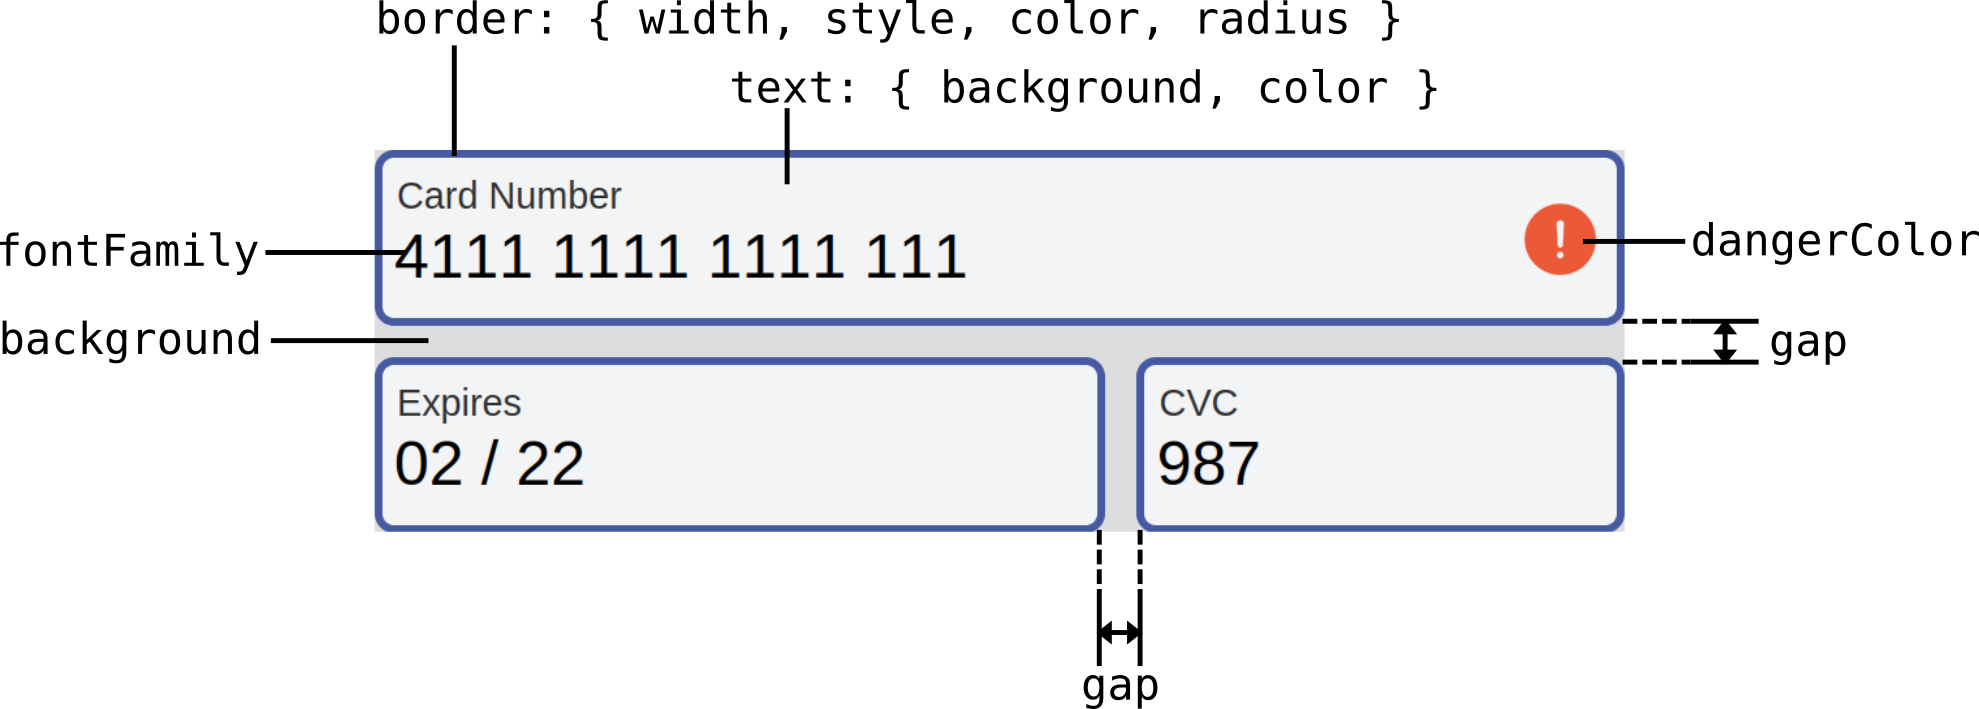
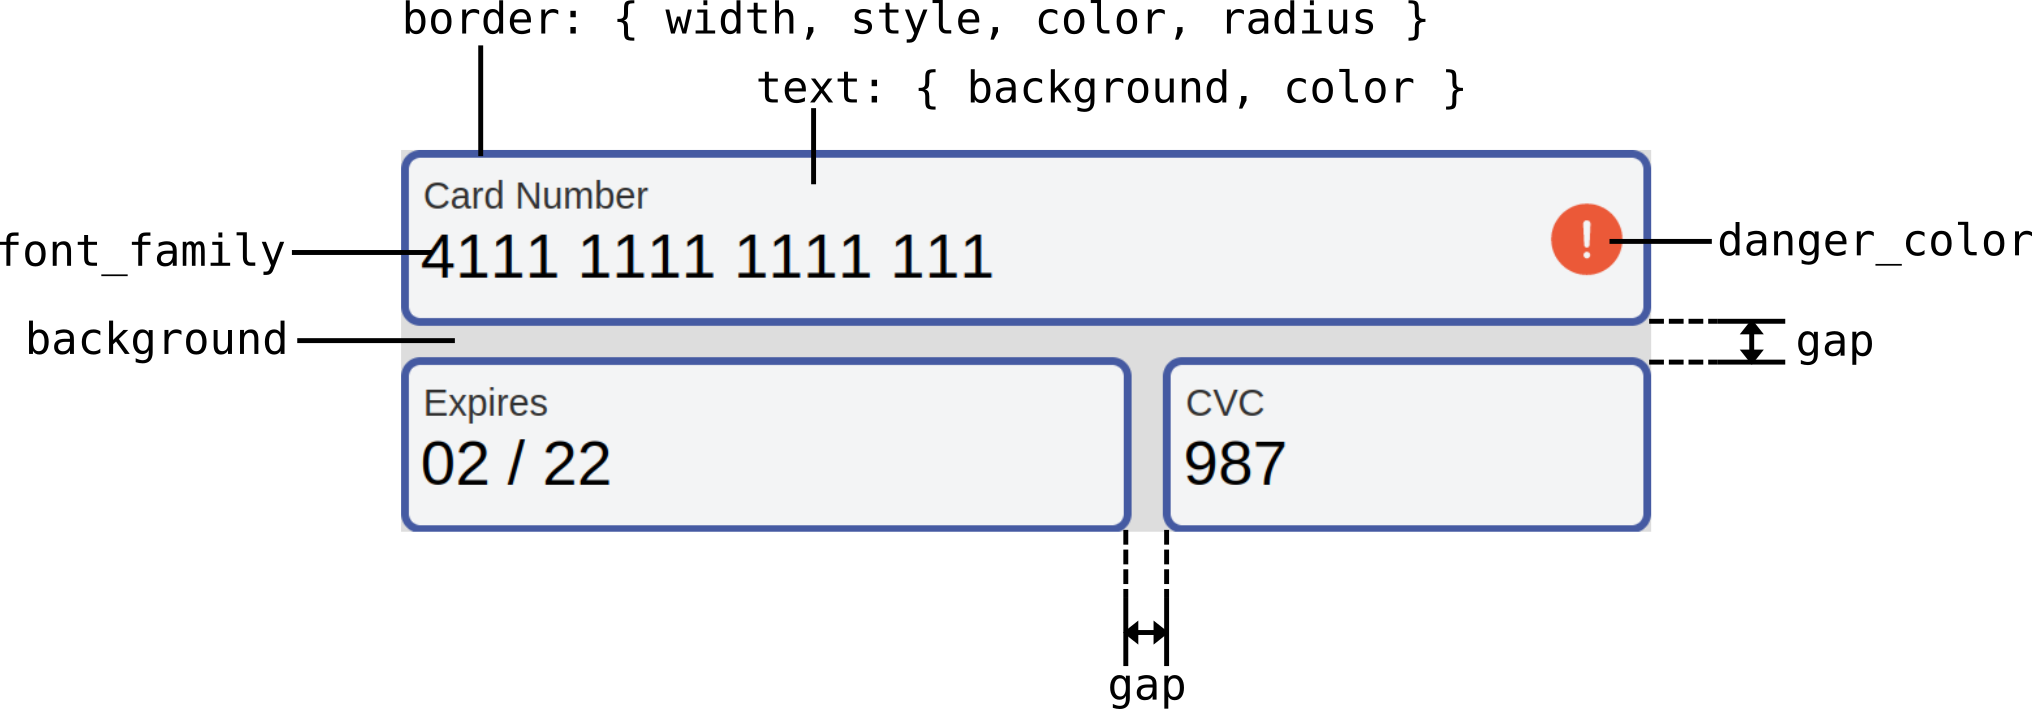
Updated merchant documentation

diff --git a/docs/.vuepress/config.js b/docs/.vuepress/config.js
@@ -60,7 +60,6 @@ module.exports = {
           { text: 'Order API', link: '/merchant/customer/create' },
           { text: 'Customer API', link: '/merchant/customer/registration-ui' },
           { text: 'Reference', link: '/merchant/reference/customer' },
-          { text: 'Customer Page', link: '/merchant/customer-page/' },
         ]
       },
       { text: 'Business banking', link: '/direct/' },
@@ -74,7 +73,6 @@ module.exports = {
       '/integrate/payment-gateway/': getIntegrateSidebar(),
       // '/integrate/acquiring/': getIntegrateSidebar(),
       '/merchant/': getMerchantSidebar(),
-      '/merchant/customer-page/': getMerchantSidebar(),
       '/direct/': [
         '',
       ],
@@ -169,7 +167,7 @@ function getMerchantSidebar() {
       ]
     },
     {
-      title: 'Customer API',
+      title: 'Customer',
       collapsable: false,
       children: [
         '/merchant/customer/registration-ui',
@@ -177,13 +175,14 @@ function getMerchantSidebar() {
         '/merchant/customer/create-api-key',
         '/merchant/customer/create-order',
         '/merchant/customer/balance',
-        '/merchant/customer/change',
+        '/merchant/customer/change-details',
         '/merchant/customer/change-contact-information',
         '/merchant/customer/fetch',
         '/merchant/customer/list',
-        '/merchant/customer/create-page-login',
+        '/merchant/customer/create-app-login',
         '/merchant/customer/payment-methods',
         '/merchant/customer/subscriptions',
+        '/merchant/customer/app',
       ]
     },
     {
@@ -194,6 +193,5 @@ function getMerchantSidebar() {
         '/merchant/reference/subscription'
       ]
     },
-    '/merchant/customer-page'
   ]
 }

diff --git a/docs/merchant/card-input/style.md b/docs/merchant/card-input/style.md
@@ -17,14 +17,14 @@ The layout parameter is optional and has three possible values: standard, row or
 ### Row
 
 ```html
-<intergiro-card-input api-key="<public.api.key>" layout="standard"></intergiro-card-input>
+<intergiro-card-input api-key="<public.api.key>" layout="row"></intergiro-card-input>
 ```
 <img :src="$withBase('/assets/img/merchant/card-input/row.png')" alt="Row">
 
 ### Column
 
 ```html
-<intergiro-card-input api-key="<public.api.key>" layout="standard"></intergiro-card-input>
+<intergiro-card-input api-key="<public.api.key>" layout="column"></intergiro-card-input>
 ```
 
 <img :src="$withBase('/assets/img/merchant/card-input/column.png')" alt="Column">
@@ -42,54 +42,54 @@ The cosmetic parameter should be set to a JSON or a stringified JSON as describe
 		"text": {"background": "#e7e7e7", "color": "black"}, 
 		"border": {"width": "1px", "radius": "5px", "color": "#000", "style": "solid"},
 		"background": "white",
-		"fontFamily": "Arial, Verdana",
-		"dangerColor": "#de4747"
+		"font_family": "Arial, Verdana",
+		"danger_color": "#de4747"
 	}'>
 </intergiro-card-input>
 ```
 ### Fonts
-The fontFamily field can consist of several fonts and are separated by comma. The property `text.color` changes the text color.
+The font_family field can consist of several fonts and are separated by comma. The property `text.color` changes the text color.
 ``` html
 <intergiro-card-input
   api-key="<public-api-key>"
   cosmetic='{ 
         "text": {"color": "#566c68"},
-		"fontFamily": "Arial, Verdana",
+		"font_family": "Arial, Verdana",
 	}'>
 </intergiro-card-input>
 ```
 
 ### Borders
 The borders inside the component can be changed with four parameters.
-- `"width"` can be set to pixels (px) or em values. Changes the witdh of the borders.
-- `"radius"` can be set to pixels (px) or em values. Changes the "roundness" of the corners.
-- `"color"` can be set to rgb or hex vales. Changes the color of the borders.
-- `"style"` can be set to `"dotted"`, `"dashed"`, `"solid"`, `"double"`, `"groove"`, `"ridge"`, `"inset"`, `"outset"`, `"none"` or `"hidden"`. Changes the border effect.
+- `"width"` Changes the witdh of the borders.
+- `"radius"` Changes the "roundness" of the corners.
+- `"color"` Changes the color of the borders (not compatible with alpha values). 
+- `"style"` Changes the border style.
 
 ``` JSON
 cosmetic='{"border": {"width": "1px", "radius": "5px", "color": "#000", "style": "solid"}}'
 ```
 ### Gap
-To change the distance between the input fields the `"gap"` parameter can be used with either pixel (px) or em values.
+To change the distance between the input fields the `"gap"` parameter can be used with all units of length allowed by css.
 
 ```JSON
 cosmetic='{"gap": "1em"}'
 ```
 
 ### Colors
-Colors should be specified in rgb or hex values.
+Colors should be specified in rgb, color names, hsl or hex values without alpha values.
 
 - The text color is changed through the `"text.color"` property.
 - The background color is changed through the `"text.background"` property.
 - The border color is changed through the `"border.color"` property.
-- The color of the error symbol is changed through the `"dangerColor"` property.
+- The color of the error symbol is changed through the `"danger_color"` property.
 
  ``` JSON
-cosmetic='{"dangerColor": "#de4747"}'
+cosmetic='{"danger_color": "#de4747"}'
 ```
 or 
  ``` JSON
-cosmetic='{"dangerColor": "222, 71, 71"}'
+cosmetic='{"danger_color": "222, 71, 71"}'
 ```
 
 ### Example 1
@@ -102,8 +102,8 @@ cosmetic='{"dangerColor": "222, 71, 71"}'
 		"gap": "0.2em", 
 		"text": {"background": "#ccfff0", "color": "#566c68"}, 
 		"border": {"radius": "10px", "style": "none"},
-		"fontFamily": "Ubuntu",
-		"dangerColor": "#de4747"
+		"font_family": "Ubuntu",
+		"danger_color": "#de4747"
 	    }' 
     layout="row">
 </intergiro-card-input>
@@ -117,8 +117,8 @@ cosmetic='{"dangerColor": "222, 71, 71"}'
 	cosmetic='{
 	    "text": {"background": "#fff8d9", "color": "#202020"}, 
 	    "border": {"width": ".5px", "radius": "0px", "color": "#e9d789", "style": "solid"},
-	    "fontFamily": "Georgia",
-	    "dangerColor": "#de4747"
+	    "font_family": "Georgia",
+	    "danger_color": "#de4747"
 	    }' 
 	layout="standard">
 </intergiro-card-input>
@@ -134,8 +134,8 @@ cosmetic='{"dangerColor": "222, 71, 71"}'
         "gap": "0.3em", 
         "text": {"background": "#e7e7e7", "color": "black"}, 
         "border": {"width": "1px", "radius": "5px", "color": "#000", "style": "solid"},
-        "fontFamily": "Arial, Verdana",
-        "dangerColor": "#de4747"
+        "font_family": "Arial, Verdana",
+        "danger_color": "#de4747"
     }' 
     layout="column">
 </intergiro-card-input>

diff --git a/docs/merchant/integration-guide/introduction.md b/docs/merchant/integration-guide/introduction.md
@@ -9,14 +9,18 @@ Don't sweat it, you can start somewhere and change solution step by step.
 - Otherwise, or when in doubt, use our [PSP APIs](./psp/api).
 
 
-| API           | Subset                                                           | Acquiring    | Order                | Subscription         |
-|---------------|------------------------------------------------------------------|--------------|----------------------|----------------------|
-| Acquiring     | [Authorization API](../../integrate/acquiring/api#authorization) | yes          |                      |                      |
-| Acquiring,PSP | [Verification API](../../integrate/acquiring/api#verification)   | yes          | Custom UI (optional) | Custom UI (optional) |
-| PSP           | [Order API](../order/create)                                     |              | Custom UI            |                      |
-| PSP           | [Customer API](../customer/introduction)                         |              |                      | yes                  |
-| PSP           | [Customer Subscription API](../customer/introduction)            |              |                      | yes                  |
-| Acquiring,PSP | [Card API](../card-api/create)                                   | optional     | optional             |                      |
-| PSP           | [Registration UI](../customer/registration-ui)                   |              |                      | Standard UI          |
-| PSP           | [Checkout UI](../checkout/embed)                                 |              | Standard UI          |                      |
-| Acquiring,PSP | [Card Input UI](../card-input/embed)                             | Minimize PCI |                      | Custom UI            |
+| API           | Subset                                                           | Acquiring          | Order                | Subscription         |
+|---------------|------------------------------------------------------------------|--------------------|----------------------|----------------------|
+| Acquiring     | [Authorization API](../../integrate/acquiring/api#authorization) | yes                |                      |                      |
+| Acquiring,PSP | [Verification API](../../integrate/acquiring/api#verification)   | yes                | Custom UI (optional) | Custom UI (optional) |
+| PSP           | [Order API](../order/create)                                     |                    | Custom UI (optional) |                      |
+| PSP           | [Customer API](../customer/introduction)                         |                    |                      | yes                  |
+| PSP           | [Customer Subscription API](../customer/introduction)            |                    |                      | yes                  |
+| Acquiring,PSP | [Card API](../card-api/create)                                   | optional           |                      |                      |
+| PSP           | [Registration UI](../customer/registration-ui)                   |                    |                      | Standard UI          |
+| PSP           | [Checkout UI](../checkout/embed)                                 |                    | Standard UI          |                      |
+| Acquiring,PSP | [Card Input UI](../card-input/embed)                             | Minimize PCI scope | Custom UI (optional) | Custom UI (optional) |
+
+- Standard UI: a complete solution with our UI components.
+- Custom UI: if you want to build your own UI, including some or none of our UI components.
+- Minimize PCI scope: avoid handling card information.

diff --git a/docs/merchant/integration-guide/psp/api.md b/docs/merchant/integration-guide/psp/api.md
@@ -8,33 +8,38 @@
 
 ## [Creating orders UI](../../checkout/embed)
 Checkout is used for creating orders and authorize payments associated with orders for one off relations. 
-Take a look at [Checkout UI](../../checkout/embed) for code examples and a more detailed description, where information about how to customize the component is available under [Checkout Cosmetics](../../checkout/cosmetics).
+Take a look at [Checkout UI](../../checkout/embed) for code examples and a more detailed description, where information about how to customize the component is available under [Checkout Cosmetics](../../checkout/cosmetics) and [Checkout Features](../../checkout/features).
 
-## [Registering Customers UI](../../customer/register-ui) 
-The [Onboard UI](../../customer/register-ui) component lets your users register contact and card information that gets authorized for future payments, such as subscriptions or other recurring payments.
+## [Registering Customers UI](../../customer/registration-ui) 
+The [Intergiro Customer Registration UI](../../customer/registration-ui) component lets your users register contact and card information that gets authorized for future payments, such as subscriptions or other recurring payments.
 
 ## Minimize PCI scope
 If you need a separate card tokenization there is an UI solution in addition to an API solution.
 
-#### [Card Input UI](../../card-input/embed)
+### [Card Input UI](../../card-input/embed)
 Intergiro Card Input is an embeddable component for card tokenization that can be integrated as a normal html component, that can be customized if desired trough [styling](../../card-input/style). 
 
 Card Input is also capable of doing 3D Secure, more information and code examples can be found at [Card Input Verification](../../card-input/verification). 
 
 For more information and code example please read more at [Intergiro Card Input](../card-input/embed) 
 
-#### [Card API](../../card-api/create)
+### [Card API](../../card-api/create)
 [Card API](../../card-api/create) can create card tokens and handle 3D Secure if desired. 
 
 
 ## API only (S2S)
 
-- [Card API](../../card-api/create) 
-    - [Card tokenization](../../card-api/create)
-    - [3D Secure handling](../../card-api/verification)
-- [Order API](../../order/create)
-    - [Creating orders](../../order/create)
-    - [Changing orders](../../order/change)
-- [Customer API](../../customer/create)
-    - [Subscriptions](../../customer/subscriptions)
-    - [Recurring payments](../../customer/create-order)
+### Card API 
+
+- [Card tokenization](../../card-api/create)
+- [3D Secure handling](../../card-api/verification)
+### Order API
+
+- [Creating orders](../../order/create)
+- [Changing orders](../../order/change)
+
+### Customer API
+
+- [Creating customers](../../customer/create) 
+- [Subscriptions](../../customer/subscriptions)
+- [Recurring payments](../../customer/create-order)

diff --git a/docs/merchant/customer/app.md b/docs/merchant/customer/app.md
@@ -1,15 +1,25 @@
-# Customer Page
+# App
 
-Intergiro Customer is a personal page that is provided to all your customers, to make it easy to update payment and contact information, and to provide easy access to all orders associated to the customer.
+Intergiro Customer is a personal app that is provided to all your customers, to make it easy to update payment and contact information, and to provide easy access to all orders associated to the customer.
 
 ## Website integration
- The customer page can be integrated into your website as an embedded page. The `<intergiro-customer>` component can be used to access the entire customer page, or to access individual components of the page, such as the payment methods, order history or subscriptions.
+ The customer app can be integrated into your website as an embedded component. The `<intergiro-customer>` component can be used to access the entire customer app, or to access individual components of the app, such as the payment methods, order history or subscriptions.
  
-To integrate the customer page to your website, a unique [customer key](#customer-api-key) is needed for each customer. [Customer keys](#customer-api-key) are valid for three days until they expire and should thereafter be renewed.
+To integrate the customer app to your website, a unique [customer key](#customer-api-key) is needed for each customer. [Customer keys](#customer-api-key) are valid for three days until they expire and should thereafter be renewed.
 
-Full customer page example implementation: 
+Full customer app example implementation: 
 ```html
-<intergiro-customer api-key="<your-customer-key>"></intergiro-customer>
+<!DOCTYPE html>
+<html dir="ltr">
+<head>
+	<script type="module" src="https://customer.merchant.intergiro.com/intergiro-customer.esm.js"></script>
+	<script nomodule src="https://customer.merchant.intergiro.com/intergiro-customer.js"></script>
+	<link href="https://merchant.intergiro.com/intergiro/index.css" rel="stylesheet" />
+</head>
+<body>
+    <intergiro-customer api-key="<your-customer-key>"></intergiro-customer>
+</body>
+</html>
 ```
 Single component example implementation. Possible component identifiers are `"method"`, `"orders"` or `"subscription"`. 
 ```html
@@ -33,7 +43,7 @@ Authorization: Bearer <private.api.key>
 A successful response will return a Customer API key.
 
 ## Customized theming
-Customized theming can be set to the customer page by specifying specific styling attributes. This is done by entering a stringified JSON object into the `cosmetic` attribute. All available styling options are seen in the figure below.
+Customized theming can be set to the customer app by specifying specific styling attributes. This is done by entering a stringified JSON object into the `cosmetic` attribute. All available styling options are seen in the figure below.
 
 ```json
 cosmetic = {

diff --git a/docs/merchant/checkout/embed.md b/docs/merchant/checkout/embed.md
@@ -1,6 +1,18 @@
 # Embedable Component
 
-The Intergiro Checkout component can tokenize cards, handle 3d Secure and create orders. Below is a simple example of how to implement and how it will display.
+The Intergiro Checkout component can tokenize cards, handle 3d Secure and create orders.
+
+The attributes to Intergiro Checkout.
+| Field       | Type                                                                                                                       | Description                  |
+|-------------|----------------------------------------------------------------------------------------------------------------------------|------------------------------|
+| `currency`  | [Currency](../../integrate/acquiring/reference.html#currency)                                                              | Currency of the order        |
+| `items`     | `number`, [Item](../../integrate/acquiring/reference.html#item) or [Item](../../integrate/acquiring/reference.html#item)[] | Amount or items ordered      |
+| `api-key`   | `<public.api.key>`                                                                                                         |                              |
+| `features`  | `"contact" | "transfer" | "contact transfer"`                                                                              | See [`features`](./features) |
+| `cosmetics` | [`Cosmetics`](./cosmetic)                                                                                                  |                              |
+| `number`    | `string`                                                                                                                   | order number                 |
+
+ Below is a simple example of how to implement and how it will display.
 
 ``` html
 <!DOCTYPE html>
@@ -15,8 +27,8 @@ The Intergiro Checkout component can tokenize cards, handle 3d Secure and create
 <body style="width: 100%; max-width: 20em; margin-left: auto; margin-right: auto;">
 	<main>
 		<form action="<url-to-done-page>" method="get">
-			<payfunc-checkout items=150 currency="EUR" api-key="<public.api.key>">
-			</payfunc-checkout>
+			<intergiro-checkout items=150 currency="EUR" api-key="<public.api.key>">
+			</intergiro-checkout>
 		</form>
 	</main>
 </body>

diff --git a/docs/merchant/card-input/verification.md b/docs/merchant/card-input/verification.md
@@ -3,7 +3,7 @@
 This section describes how to do 3D Secure using `<intergiro-card-input>`. If you wish to have full control over the 3D Secure process you can build it yourself using the [Verification API](../../integrate/acquiring/api#verification).
 
 ## 3D Secure
-Submit a [card token](./embed) together with a `verification required` error through the card input to initialize the 3D Secure cycle. This can render an invisible iframe for frictionless flow or a visible ifram that requires user interaction. The 3D Sercure process may require several steps in order to succeed, in the response will contain a new verification required error which is to be submitted to card input together with the card token.
+Submit a [card token](./embed) together with a `verification required` error through the card input to initialize the 3D Secure cycle. This can render an invisible iframe for frictionless flow or a visible ifram that requires user interaction. The 3D Sercure process may require several steps in order to succeed. The response will contain a new verification required error which is to be submitted to card input together with the card token.
 
 ``` json
 {
@@ -57,7 +57,7 @@ How to use card input to create an order and verifying the payment with 3D Secur
 			let result
 			if (typeof card == "string") {
 				order.payment.card = card
-				const response = await fetch("https://api.payfunc.com/order", {
+				const response = await fetch("https://merchant.intergiro.com/order", {
 					headers: {
 						"Accept": "application/json",
 						"Content-Type": "application/json",
@@ -118,7 +118,7 @@ How to create a customer with a card token for recurring payments, using Intergi
 			if (typeof card == "string") {
 				customer = customer ?? { method: [{ type: "token" }] }
 				customer.method[0].card = card
-				const response = await fetch("https://api.payfunc.com/customer", {
+				const response = await fetch("https://merchant.intergiro.com/customer", {
 					headers: {
 						"Accept": "application/json",
 						"Content-Type": "application/json",

diff --git a/docs/merchant/customer/create-app-login.md b/docs/merchant/customer/create-app-login.md
@@ -1,7 +1,7 @@
-# Create Page Login
-To give access to the [`Customer Page`](../customer-page.html#customer-page) to the contact, you can send them a single use login Link via email. For this feature to be available, a constant email has to be set.
+# Create App Login
+To give access to the [`Customer App`](./app) to the contact, you can send them a single use login Link via email. For this feature to be available, a constant email has to be set.
 #### Request
-To create such a login link send the following request to the customer page login. A request to this endpoint can either be made with a `"private"` authorization key or with the `"customer"` authorization key. With the `"customer"` authorization key you have to specify `"me"` as the customer id, for `"private"` authorization specify the customer id.
+To create such a login link send the following request to the customer app login. A request to this endpoint can either be made with a `"private"` authorization key or with the `"customer"` authorization key. With the `"customer"` authorization key you have to specify `"me"` as the customer id, for `"private"` authorization specify the customer id.
 ```{1}
 POST /customer/<customerId>/link
 

diff --git a/docs/merchant/customer/create.md b/docs/merchant/customer/create.md
@@ -2,8 +2,8 @@
 
 We strongly recommend creating customers by integrating [Customer Registration](./registration-ui.html#registration-ui). 
 However creating a customer can also be done via a call to the customer creation endpoint.
-When integrating through the endpoint the customer can be initialized with [`Contact information`](../../integrate/acquiring/reference.html#contact) 
-and [`payment methods`](./customer-methods.html#customer-methods) if you already have tokenized card information. Otherwise [Card Input](../card-input/embed) can be used to generate a card token.
+When integrating through the endpoint a customer can be initialized with [`Contact information`](../../integrate/acquiring/reference.html#contact) 
+and a [`payment method`](./payment-methods) with a tokenized card. [Card Input](../card-input/embed) can be used to generate a card token.
 
 #### Request
 ``` HTTP {1}

diff --git a/docs/merchant/customer/change-details.md b/docs/merchant/customer/change-details.md
@@ -1,4 +1,4 @@
-# Change
+# Change Details
 To update the [`"limit"`](../reference/customer.html#creatable), [`"schedule"`](../reference/subscription#schedule) or [`"currency"`](../../integrate/acquiring/reference.html#currency) fields of the Customer, you can make a call to the patch customer endpoint. 
 Note that it is only possible to change the `"currency"` field of the customer if the `"total"` field of the customer equals 0. 
 This endpoint can also be called with an empty JSON object as body. 

diff --git a/docs/merchant/customer/registration-ui.md b/docs/merchant/customer/registration-ui.md
@@ -21,7 +21,8 @@ It can either be integrated in an existing web application or be used in native 
     <header><h1>Customer Registration</h1></header>
     <main>
         <form action="done" method="get">
-            <intergiro-customer-registration number="<your-customer-number>" api-key="<public-api-key>">
+            <intergiro-customer-registration 
+              api-key="<public-api-key>">
             </intergiro-customer-registration>
 	    </form>
     </main>

diff --git a/docs/merchant/card-input/embed.md b/docs/merchant/card-input/embed.md
@@ -1,5 +1,5 @@
 # Embeddable Widget
-Intergiro Card Input is a component that is used for tokenizing cards that can be used with 
+Intergiro Card Input is a component that can be used for tokenizing cards or handle [3D Secure verification](./verification). The tokenized cards can be used with 
 
 - [Order API](../order/create)
 - [Authorization API](../../integrate/acquiring/api#authorization)
